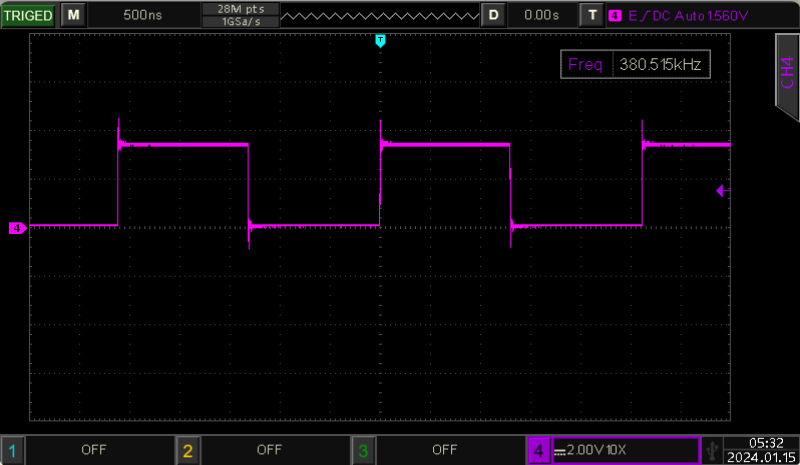
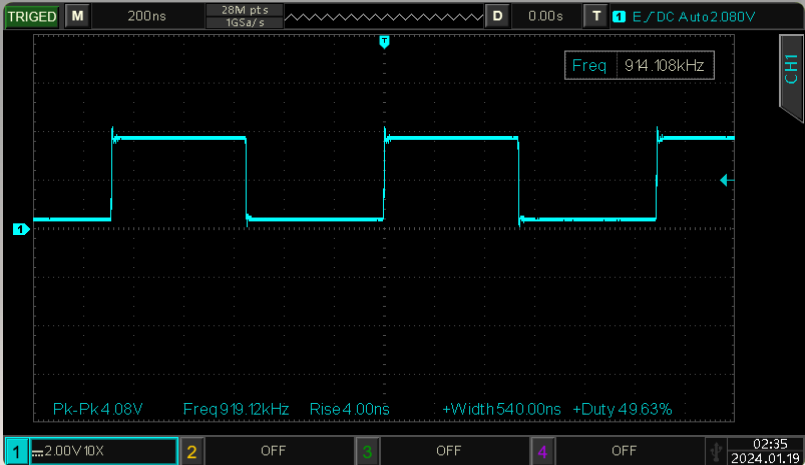
added codes and waveforms

diff --git a/raspberrypi/square_wave_pwm.py b/raspberrypi/square_wave_pwm.py
@@ -1,0 +1,13 @@
+from machine import Pin, PWM
+
+# Configure the PWM pin (GPIO 11 is physical pin 11 on the Pico)
+pwm_pin = PWM(Pin(11))
+
+# Set the frequency
+frequency = 100  # 30 MHz (this is an aspirational target and may not be achievable)
+pwm_pin.freq(frequency)
+
+# Set duty cycle to 50% to create a square wave
+duty_cycle = int(0.5 * 65535)  # Duty cycle for PWM (ranges from 0 to 65535)
+pwm_pin.duty_u16(duty_cycle)
+
